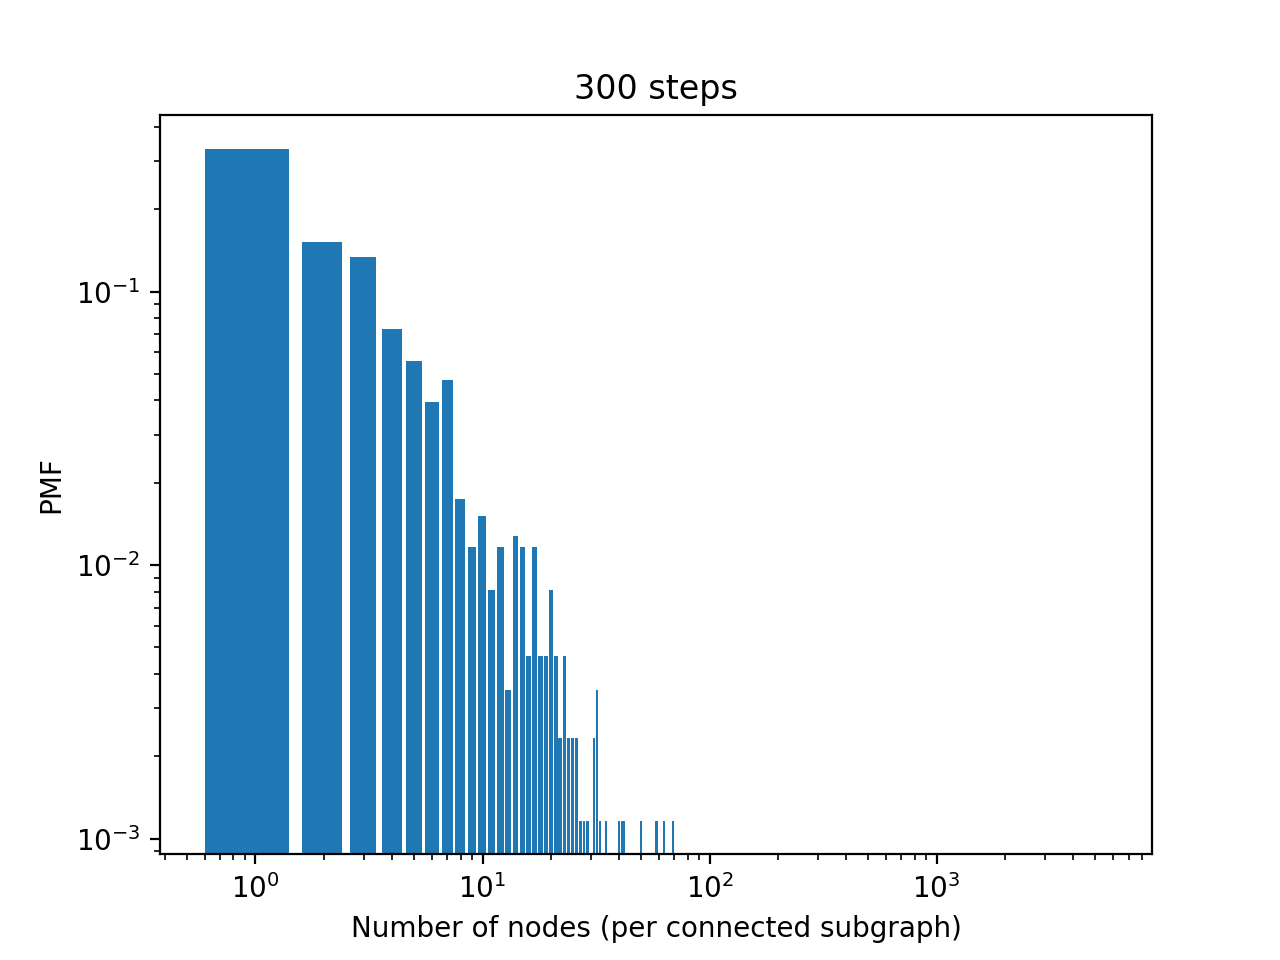
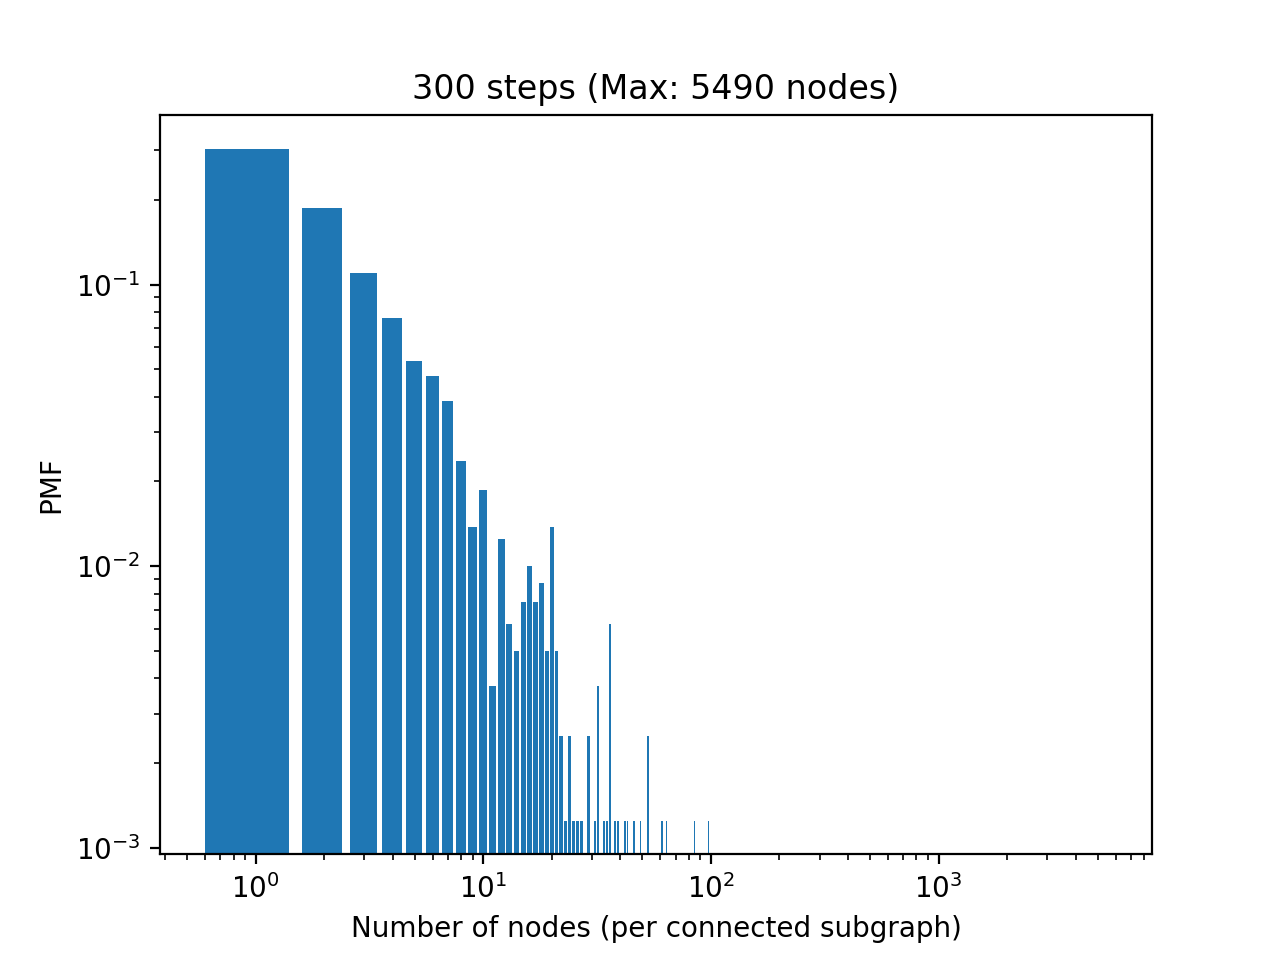
update images with max nodes

diff --git a/code/graphAnalysis.py b/code/graphAnalysis.py
@@ -85,7 +85,7 @@ def get_pmf_data(num_nodes, steps=None):
     ax.bar(x=X[:, 0], height=X[:, 1])
     ax.set_yscale('log')
     ax.set_xscale('log')
-    title = 'Initial state' if not steps else '%s steps' %(str(steps))
+    title = 'Initial state (Max: %s nodes)' %(str(int(num_nodes[0]))) if not steps else '%s steps (Max: %s nodes)' %(str(steps), str(int(num_nodes[0])))
     plt.title(title, fontdict=None, loc='center', pad=None)
     plt.xlabel('Number of nodes (per connected subgraph)')
     plt.ylabel('PMF')
